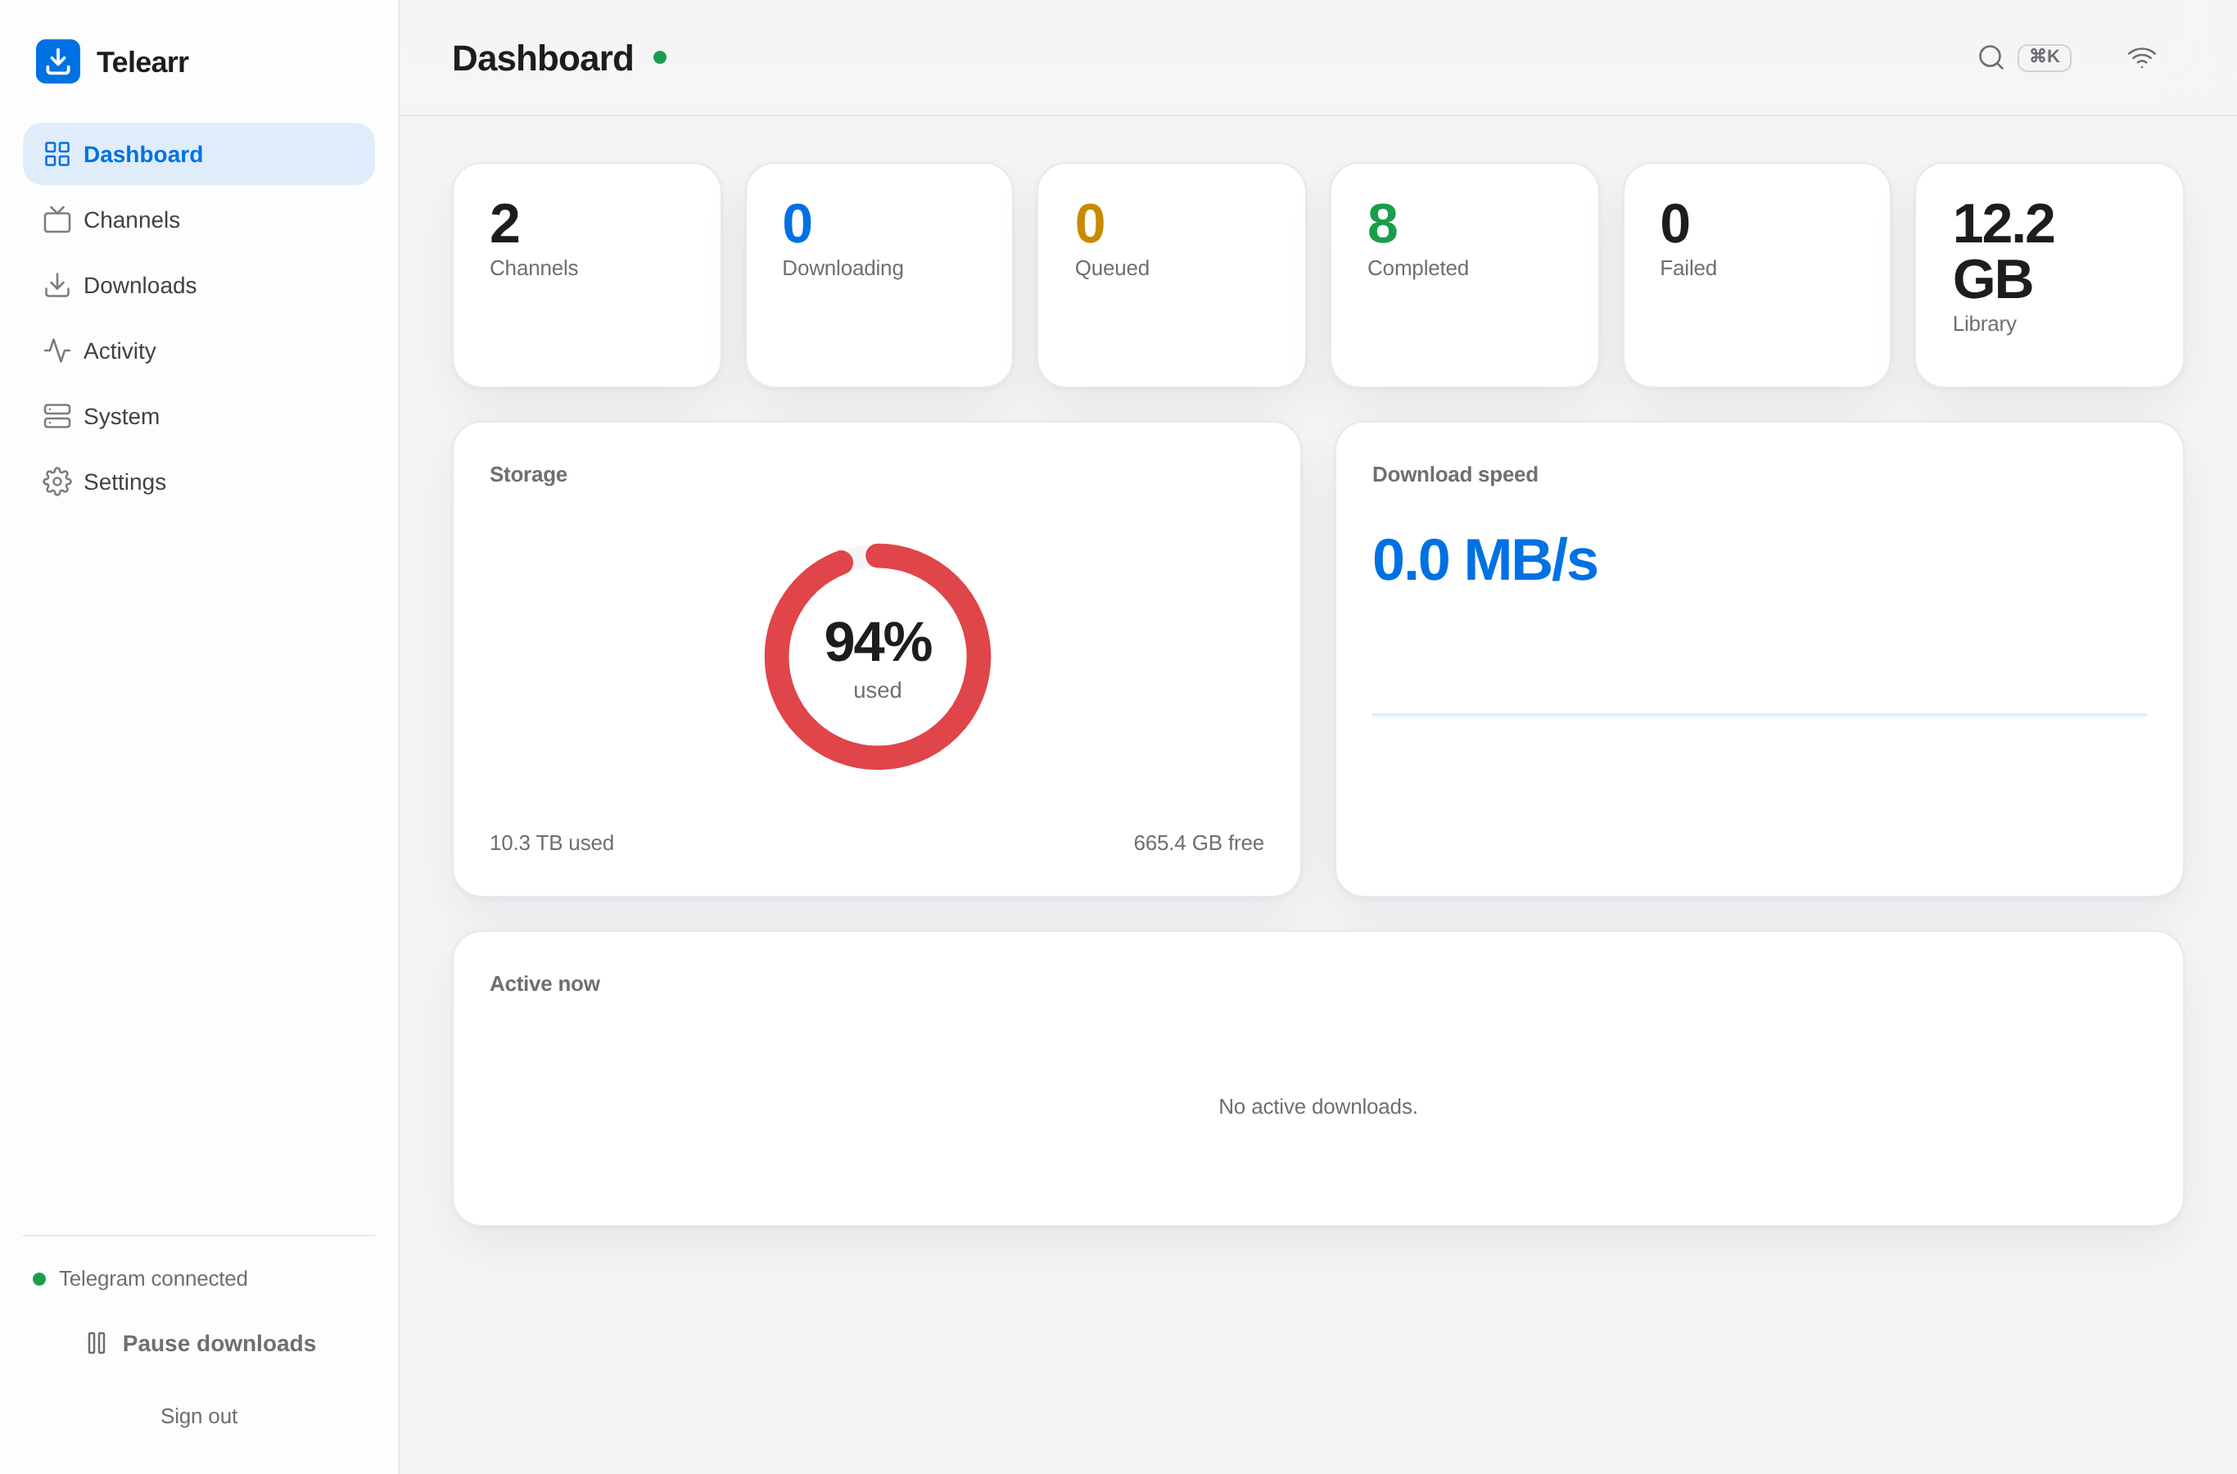
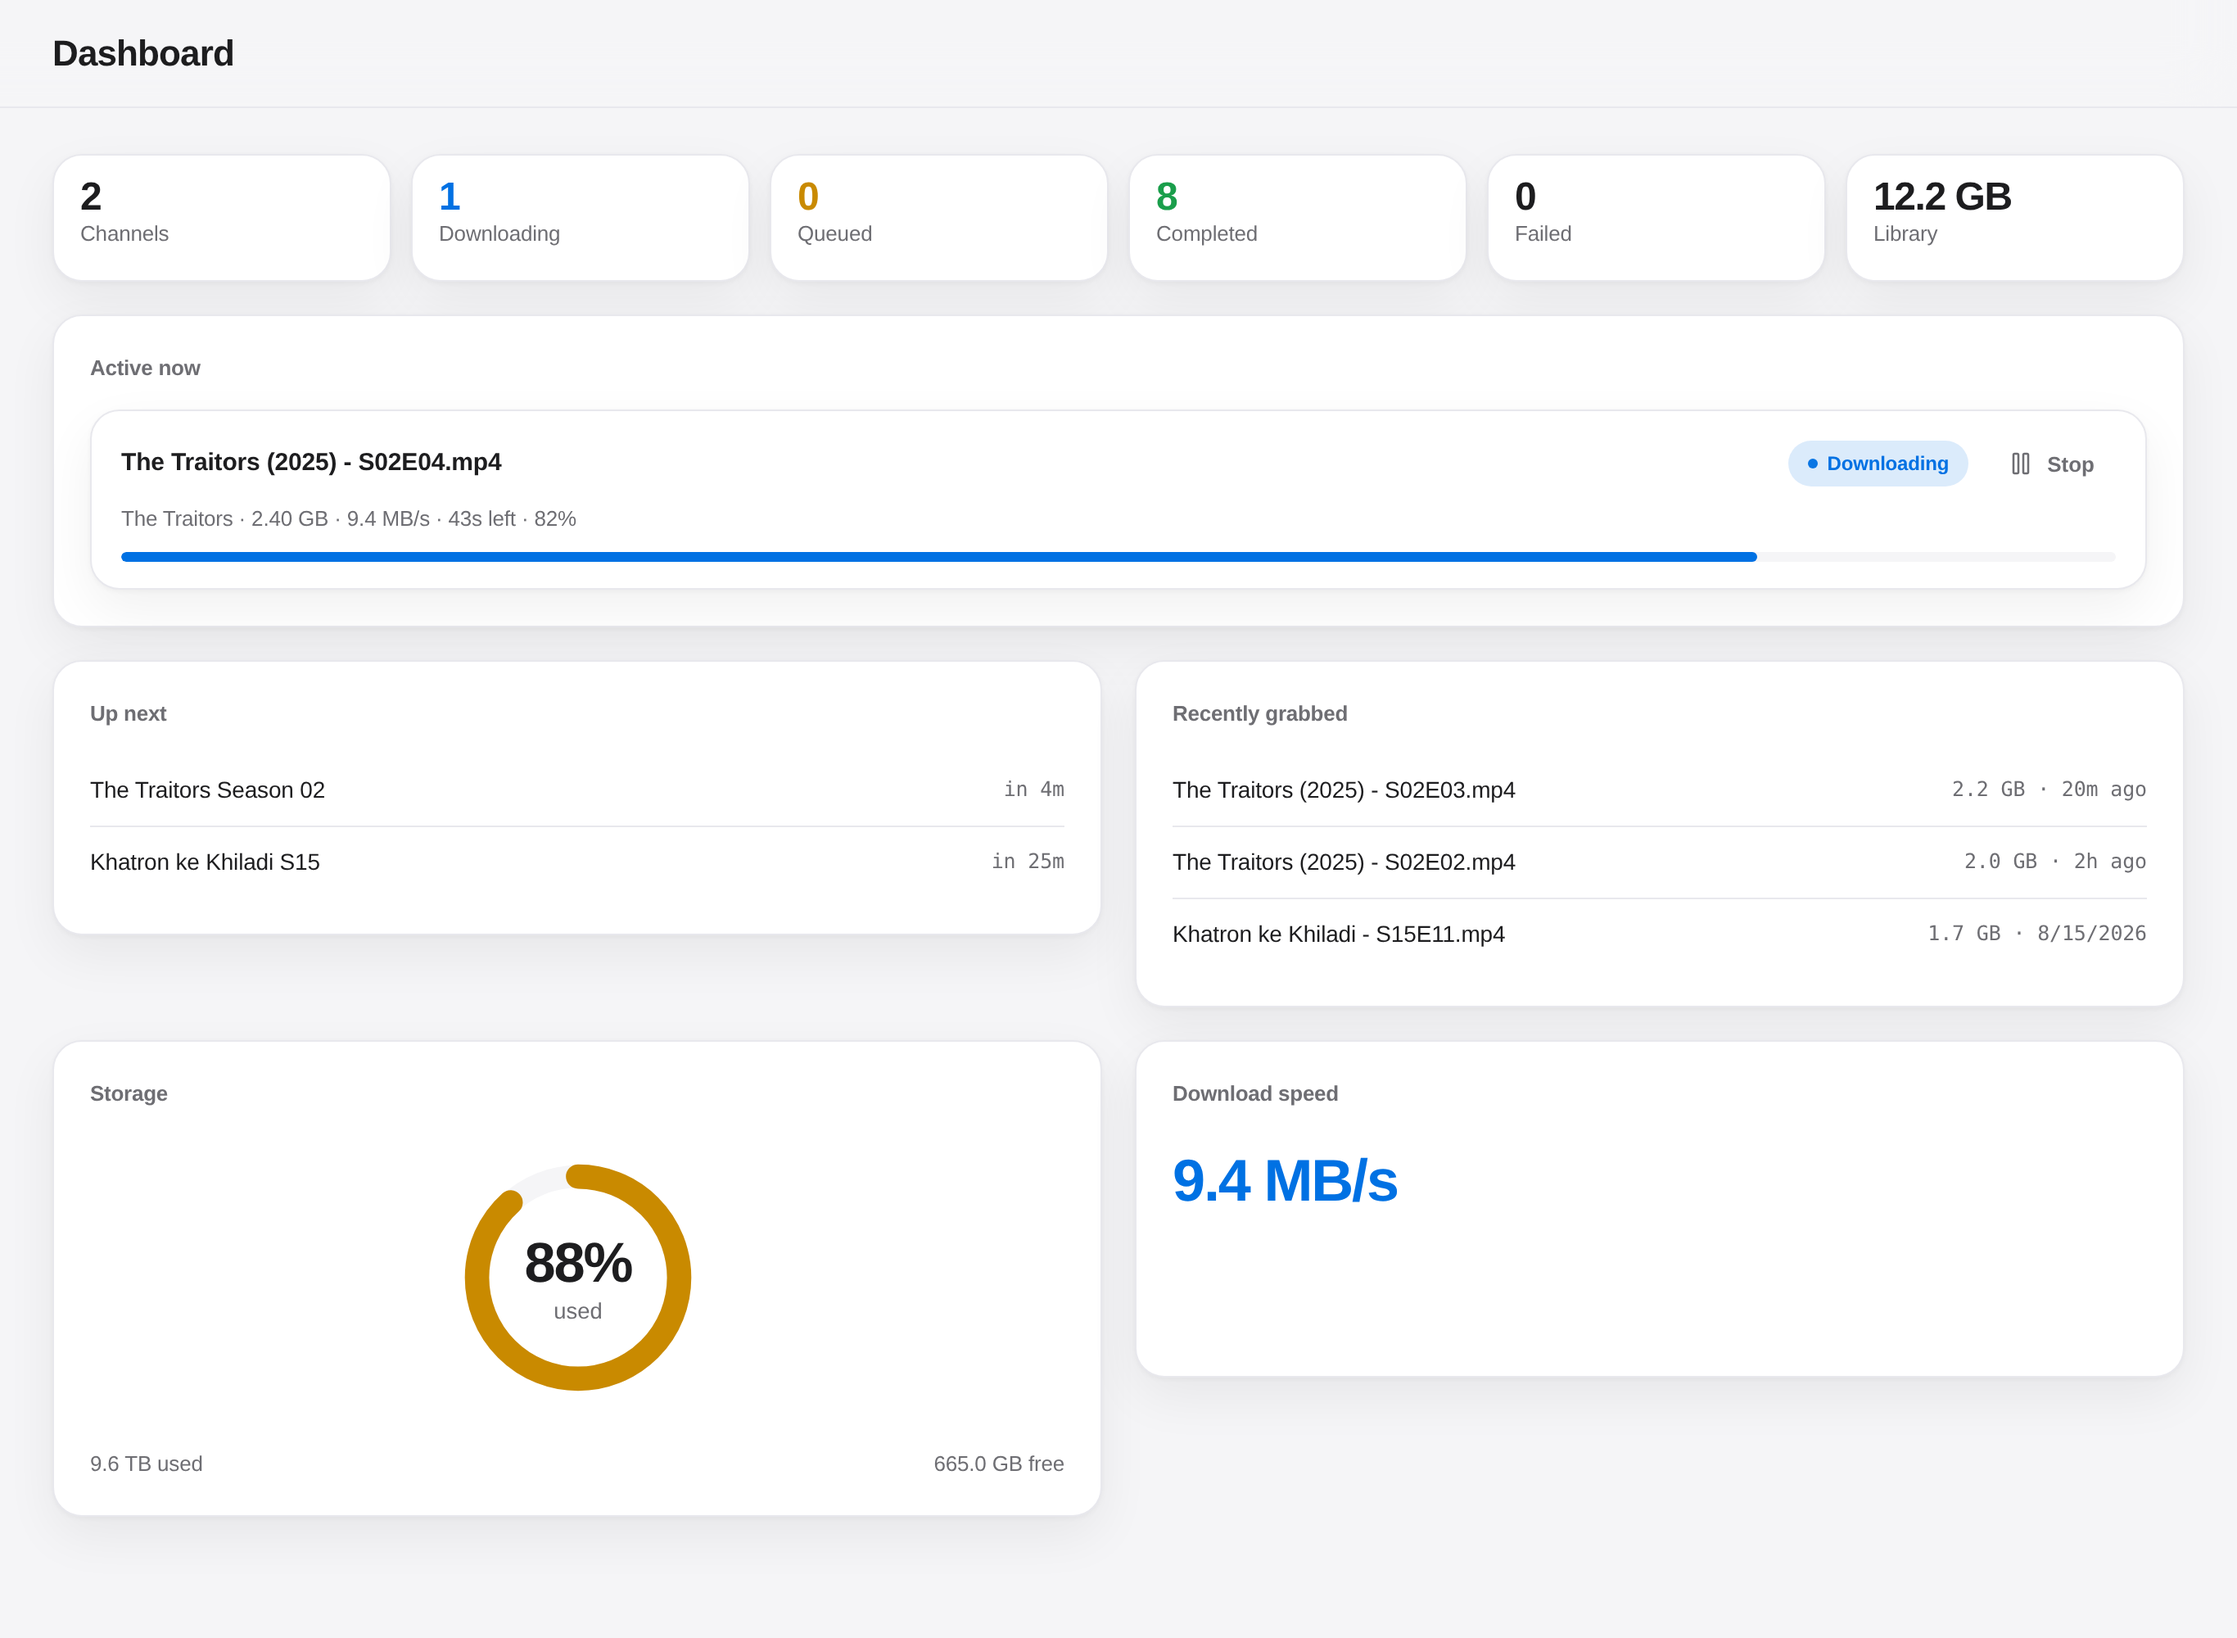
design: dashboard row alignment + refreshed dashboard screenshot
align-items:start on .grid-2 so cards size to content instead of stretching to
the tallest sibling. Refresh the dashboard screenshot to the new layout
(up next / recently grabbed / graduated donut).

diff --git a/app/static/app.css b/app/static/app.css
@@ -108,7 +108,7 @@ a:hover { text-decoration: underline; }
 /* cards / grids */
 .card { background: var(--surface); border: 1px solid var(--line-soft); border-radius: var(--radius); padding: 22px; box-shadow: var(--shadow); }
 .card-h { font-size: 13px; font-weight: 600; color: var(--muted); letter-spacing: -.01em; margin-bottom: 16px; }
-.grid-2 { display: grid; grid-template-columns: 1fr 1fr; gap: var(--sp); }
+.grid-2 { display: grid; grid-template-columns: 1fr 1fr; gap: var(--sp); align-items: start; }
 .stat-cards { display: grid; grid-template-columns: repeat(auto-fit, minmax(160px, 1fr)); gap: 14px; }
 .stat { background: var(--surface); border: 1px solid var(--line-soft); border-radius: var(--radius); padding: 20px 22px; box-shadow: var(--shadow); transition: box-shadow var(--t-base), transform var(--t-base); }
 .stat:hover { box-shadow: var(--shadow-raised); transform: translateY(-2px); }
